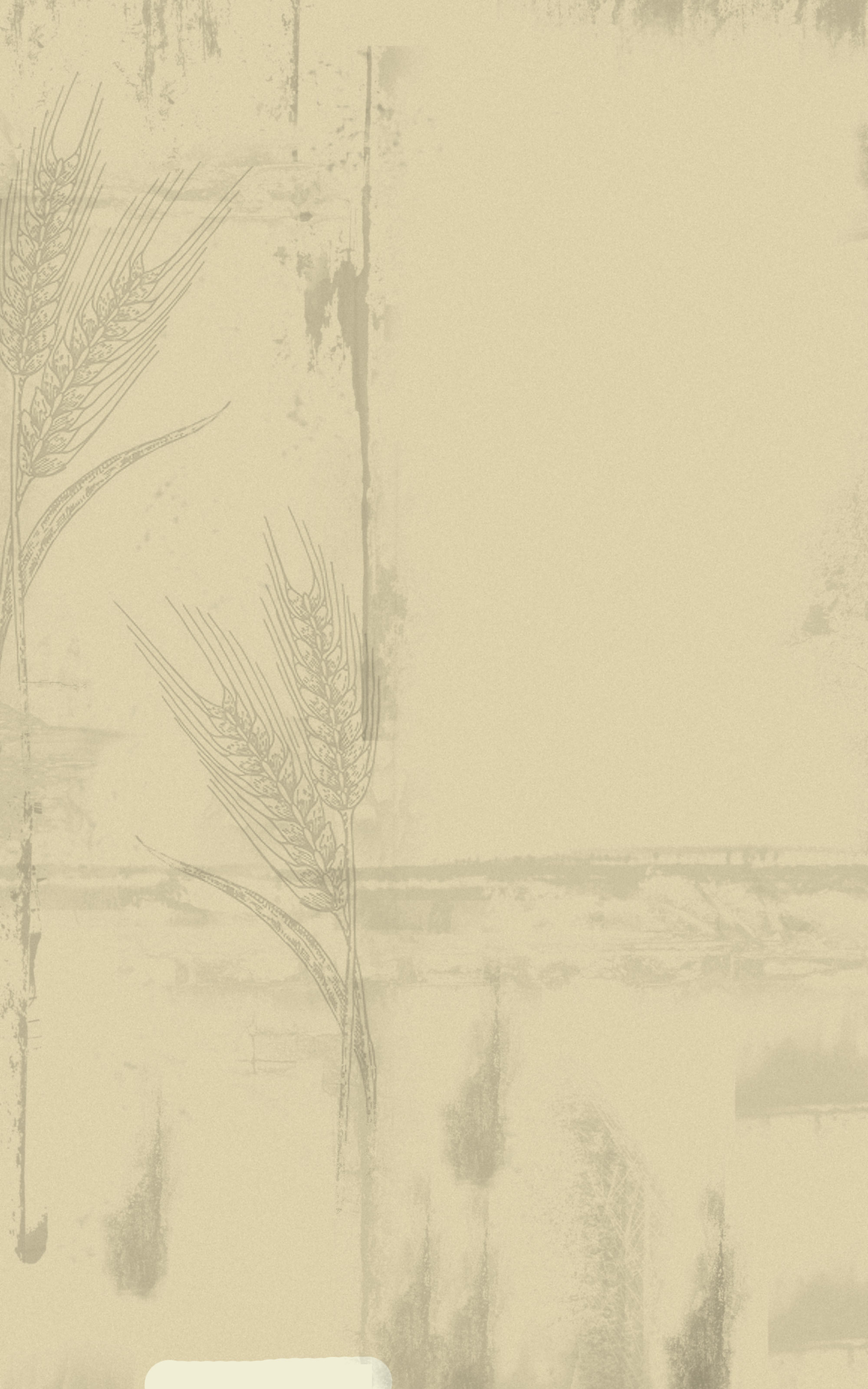
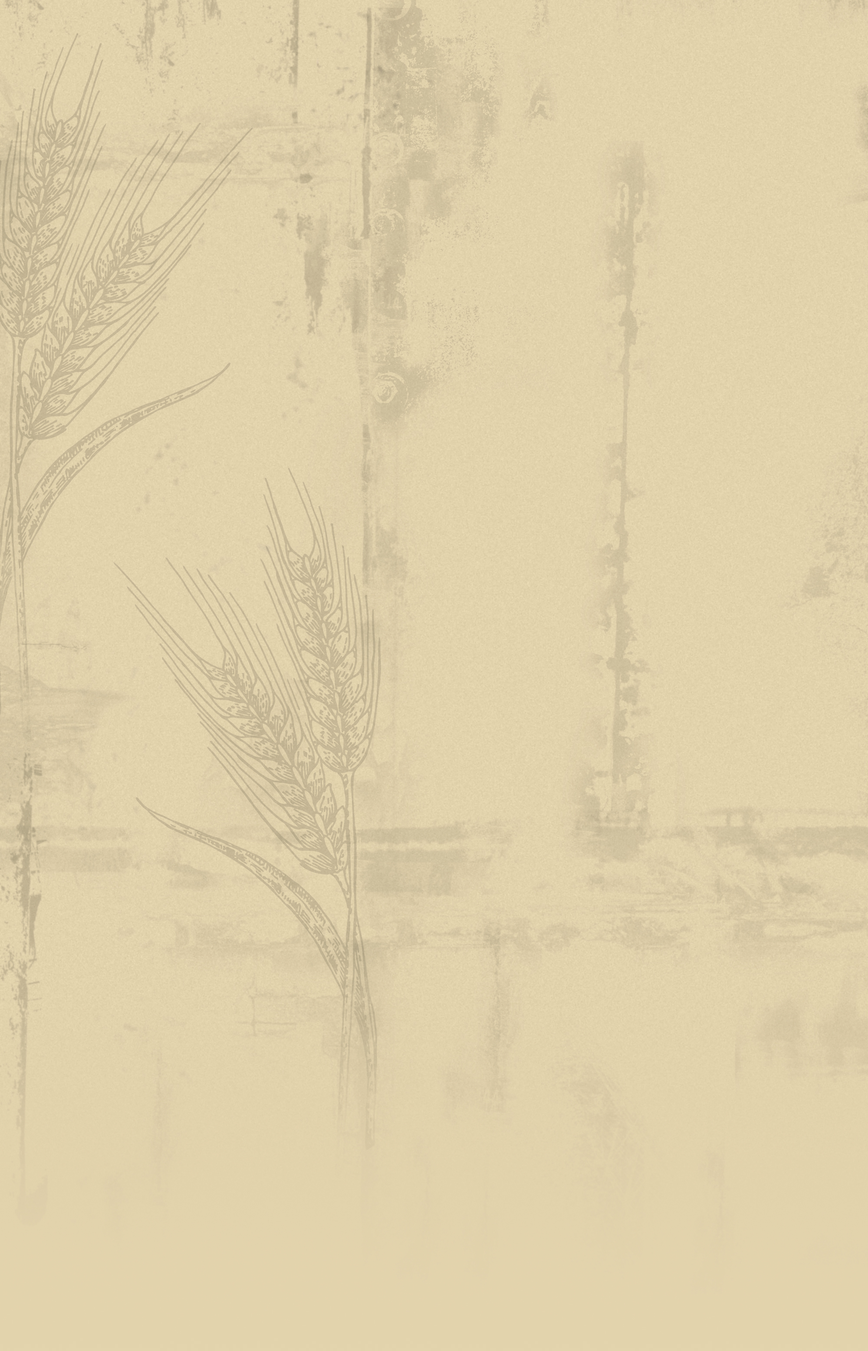
Обновил фон страницы

diff --git a/local/templates/.default/css/style.css b/local/templates/.default/css/style.css
@@ -40,7 +40,8 @@ html {
   line-height: 20px; }
 
 body {
-  background: #e0d4af url("../images/bg.jpg") center 380px;
+  background: #e2d3ac url("../images/bg.jpg") center -28% no-repeat;
+  background-size: cover;
   color: #3c3c3c;
   margin: 0;
   font-family: "Open Sans", Arial, sans-serif;

diff --git a/markup/src/scss/base.scss b/markup/src/scss/base.scss
@@ -48,7 +48,8 @@ html {
 }
 
 body {
-    background: #e0d4af url('../images/bg.jpg') center 380px;
+    background: #e2d3ac url('../images/bg.jpg') center -28% no-repeat;
+	background-size: cover;
     color: #3c3c3c;
     margin: 0;
 	font-family: $ff-regular;
